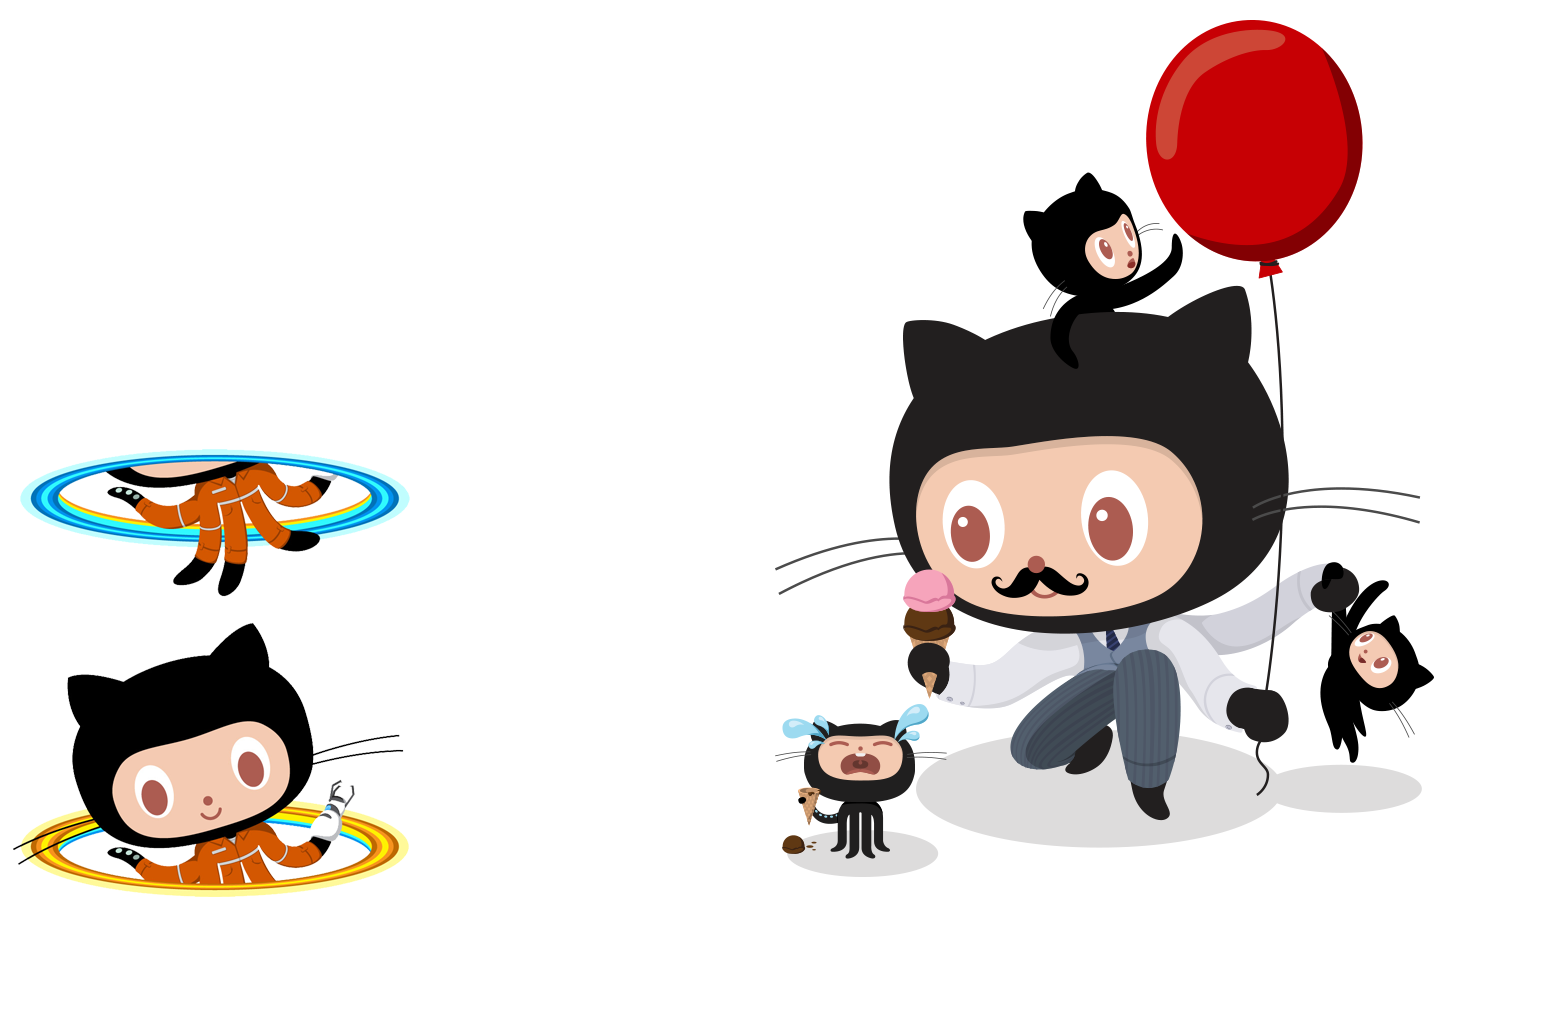
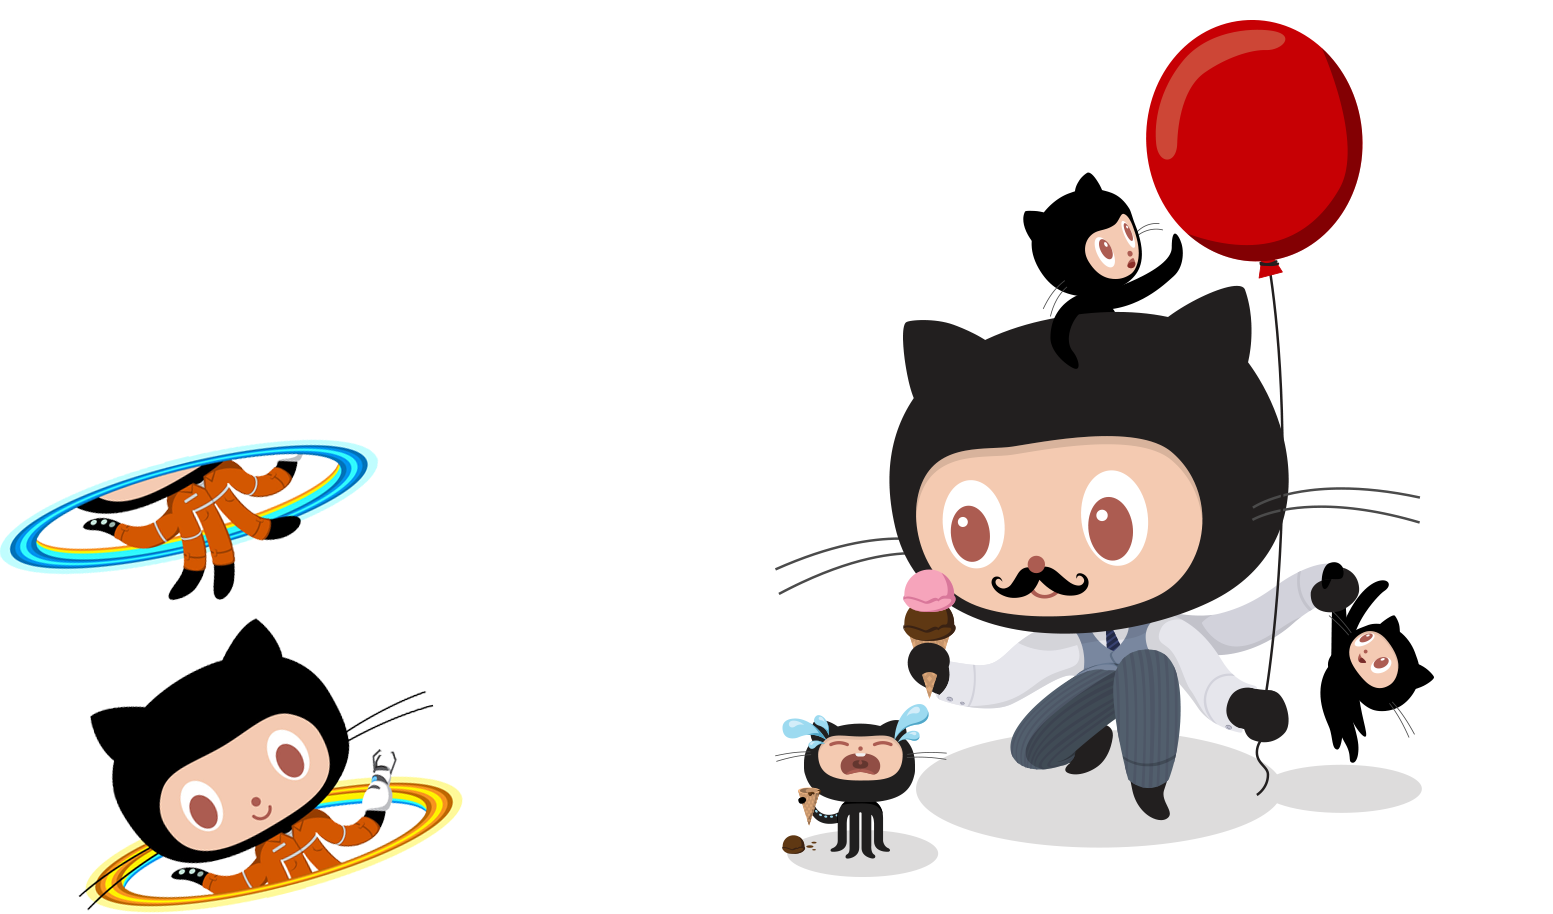
fix little mistakes and fix poptocat

Changed region(s): [[0.4945, 0.1532, 0.9272, 0.9803], [0.0, 0.4289, 0.3091, 1.0], [0.7418, 0.0, 0.8654, 0.1225]]

diff --git a/public/main.css b/public/main.css
@@ -6429,7 +6429,7 @@ body {
   position: relative;
   z-index: 4; }
   .about .row {
-    max-width: 500px; }
+    max-width: 600px; }
     @media only screen and (min-width: 601px) {
       .about .row .name {
         text-align: left; } }
@@ -6453,6 +6453,9 @@ body {
   z-index: 3; }
   .skills .row {
     max-width: 800px; }
+    @media only screen and (min-width: 993px) {
+      .skills .row {
+        max-width: 900px; } }
     .skills .row .story {
       font-size: 18px; }
       @media only screen and (max-width: 600px) {
@@ -6480,62 +6483,64 @@ body {
       margin-right: 40px;
       opacity: 0.8; }
 
-.portfolio {
+.portfolio .title, .portfolio .title-block {
+  font-size: 18px;
+  text-transform: uppercase;
+  font-weight: 400; }
+
+.portfolio .title-block {
+  position: absolute;
+  display: none;
+  left: 50%;
+  transform: translate(-50%, 0);
+  margin-top: -35px;
+  z-index: 10;
+  padding: 10px 20px; }
+  @media only screen and (min-width: 601px) {
+    .portfolio .title-block {
+      display: inline-block; } }
+
+.portfolio .title {
+  padding-top: 25px; }
+  @media only screen and (min-width: 601px) {
+    .portfolio .title {
+      display: none; } }
+
+.portfolio .row {
+  max-width: 900px;
   background-image: url("../img/poptocat.png");
   background-position-y: bottom;
   background-position-x: right;
-  background-size: 50%;
+  background-size: 498px 328px;
   background-repeat: no-repeat; }
-  .portfolio .title, .portfolio .title-block {
-    font-size: 18px;
-    text-transform: uppercase;
-    font-weight: 400; }
-  .portfolio .title-block {
-    position: absolute;
-    display: none;
-    left: 50%;
-    transform: translate(-50%, 0);
-    margin-top: -35px;
-    z-index: 10;
-    padding: 10px 20px; }
+  .portfolio .row .cards {
+    margin: 0 auto;
+    padding: 30px;
+    column-break-inside: avoid; }
+    @media only screen and (max-width: 600px) {
+      .portfolio .row .cards {
+        -webkit-column-count: 1;
+        -moz-column-count: 1;
+        column-count: 1; } }
     @media only screen and (min-width: 601px) {
-      .portfolio .title-block {
-        display: inline-block; } }
-  .portfolio .title {
-    padding-top: 25px; }
-    @media only screen and (min-width: 601px) {
-      .portfolio .title {
-        display: none; } }
-  .portfolio .row {
-    max-width: 900px; }
-    .portfolio .row .cards {
-      margin: 0 auto;
-      padding: 30px;
-      column-break-inside: avoid; }
-      @media only screen and (max-width: 600px) {
-        .portfolio .row .cards {
-          -webkit-column-count: 1;
-          -moz-column-count: 1;
-          column-count: 1; } }
-      @media only screen and (min-width: 601px) {
-        .portfolio .row .cards {
-          -webkit-column-count: 3;
-          -moz-column-count: 3;
-          column-count: 3; } }
-      .portfolio .row .cards .card-container, .portfolio .row .cards .card {
-        overflow: visible;
-        display: inline-block; }
-      .portfolio .row .cards .card {
-        text-align: left; }
-        .portfolio .row .cards .card.extended .card-title {
-          text-shadow: 1px 1px 2px black, 0 0 1em black; }
-        .portfolio .row .cards .card.extended .card-image img {
-          height: 200px;
-          object-fit: cover;
-          -webkit-filter: brightness(65%);
-          -filter: brightness(65%); }
-        .portfolio .row .cards .card .card-action a {
-          color: #ffab40; }
+      .portfolio .row .cards {
+        -webkit-column-count: 3;
+        -moz-column-count: 3;
+        column-count: 3; } }
+    .portfolio .row .cards .card-container, .portfolio .row .cards .card {
+      overflow: visible;
+      display: inline-block; }
+    .portfolio .row .cards .card {
+      text-align: left; }
+      .portfolio .row .cards .card.extended .card-title {
+        text-shadow: 1px 1px 2px black, 0 0 1em black; }
+      .portfolio .row .cards .card.extended .card-image img {
+        height: 200px;
+        object-fit: cover;
+        -webkit-filter: brightness(65%);
+        -filter: brightness(65%); }
+      .portfolio .row .cards .card .card-action a {
+        color: #ffab40; }
 
 .contact {
   padding: 25px 5px;

diff --git a/index.html b/index.html
@@ -15,7 +15,7 @@
     <div class="section about center">
         <div class="row  center">
             <div class="col s12 m3">
-                <img class="avatar" src="http://www.h2020-exilva.com/fileadmin/_processed_/2/b/csm_default-avatar_f51e70594b.png" alt="">
+                <img class="avatar" src="img/me.png" alt="">
             </div>
             <div class="col s12 m7 name">
                 <span class="first-name">Taras Serevann</span>
@@ -166,7 +166,7 @@
                         <span class="card-title">VKMeter Analytics</span>
                     </div>
                     <div class="card-content">
-                        <p>It`s like Google Analytics, but for VK: per-minute charts of coverage, visitors, views, the growth of participants, the number of subscribers online and many more useful features for VK communities. Service handle more than 300 000 queries per day.</p>
+                        <p>It`s like Google Analytics, but for VK: per-minute charts of coverage, visitors, views, the growth of participants, the number of subscribers online and many more useful features for VK communities. Service handles more than 300 000 queries per day.</p>
                     </div>
                     <div class="card-action">
                         <a target="_blank" href="https://vk.com/vkmeter">Read more</a>
@@ -194,7 +194,7 @@
                         <span class="card-title">Bitcoin Bot</span>
                     </div>
                     <div class="card-content">
-                        <p>Bot, that allows sending free e-coins (like BitCoin or PostCoin) via reactions in messengers. Made with Laravel 5 and Slack API.
+                        <p>A Bot that allows you to send free e-coins (like BitCoin or PostCoin) via reactions in messengers. Made with Laravel 5 and Slack API.
                         </p>
                     </div>
                     <div class="card-action">

diff --git a/src/sass/main.scss b/src/sass/main.scss
@@ -37,7 +37,7 @@ body {
   z-index: 4;
 
   .row {
-    max-width: 500px;
+    max-width: 600px;
 
     .name {
       @media #{$medium-and-up} {
@@ -80,7 +80,13 @@ body {
   z-index: 3;
 
   .row {
+
+
     max-width: 800px;
+
+    @media #{$large-and-up} {
+      max-width: 900px;
+    }
 
     .story {
       font-size: 18px;
@@ -133,12 +139,6 @@ body {
 {
   @extend .blue-grey, .lighten-4;
 
-  background-image: url('../img/poptocat.png');
-  background-position-y: bottom;
-  background-position-x: right;
-  background-size: 50%;
-  background-repeat: no-repeat;
-
   .title, .title-block {
     font-size: 18px;
     text-transform: uppercase;
@@ -171,6 +171,11 @@ body {
 
   .row {
     max-width: 900px;
+    background-image: url('../img/poptocat.png');
+    background-position-y: bottom;
+    background-position-x: right;
+    background-size: 498px 328px;
+    background-repeat: no-repeat;
 
     .cards {
       margin: 0 auto;
